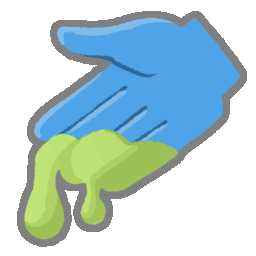
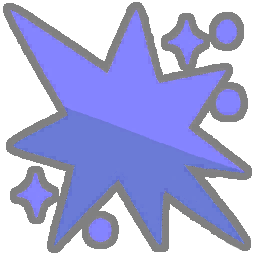
修复灵魂同调bug

diff --git a/Scripts/Powers/Amalgam/AmalgamEvolutionTheoryPendingPower.cs b/Scripts/Powers/Amalgam/AmalgamEvolutionTheoryPendingPower.cs
@@ -51,7 +51,9 @@ public sealed class AmalgamEvolutionTheoryPendingPower : QueenPowerModel
             return;
         }
 
-        CardModel source = ModelDb.Card<EvolutionTheory>();
+        // 勿用 ModelDb.Card<EvolutionTheory>()：那是 canonical 原型，访问 Owner 会抛 CanonicalModelException；
+        // 回合初自动重学不是「打出卡牌」，source 用本能力即可（灵魂同调等只响应 CardModel 来源）。
+        AbstractModel source = this;
         var choiceContext = new ThrowingPlayerChoiceContext();
         IReadOnlyList<AmalgamActionModel> toRelearn = PendingIntents.ToArray();
         PendingIntents.Clear();

diff --git a/Scripts/Powers/SoulResonancePower.cs b/Scripts/Powers/SoulResonancePower.cs
@@ -41,7 +41,7 @@ public sealed class SoulResonancePower : QueenPowerModel, IAmalgamEventListener
 			return;
 		}
 
-		if (source is not CardModel playedCard)
+		if (source is not CardModel playedCard || !playedCard.IsMutable)
 		{
 			return;
 		}
@@ -89,7 +89,7 @@ public sealed class SoulResonancePower : QueenPowerModel, IAmalgamEventListener
 			return;
 		}
 
-		if (source is not CardModel playedCard)
+		if (source is not CardModel playedCard || !playedCard.IsMutable)
 		{
 			return;
 		}
